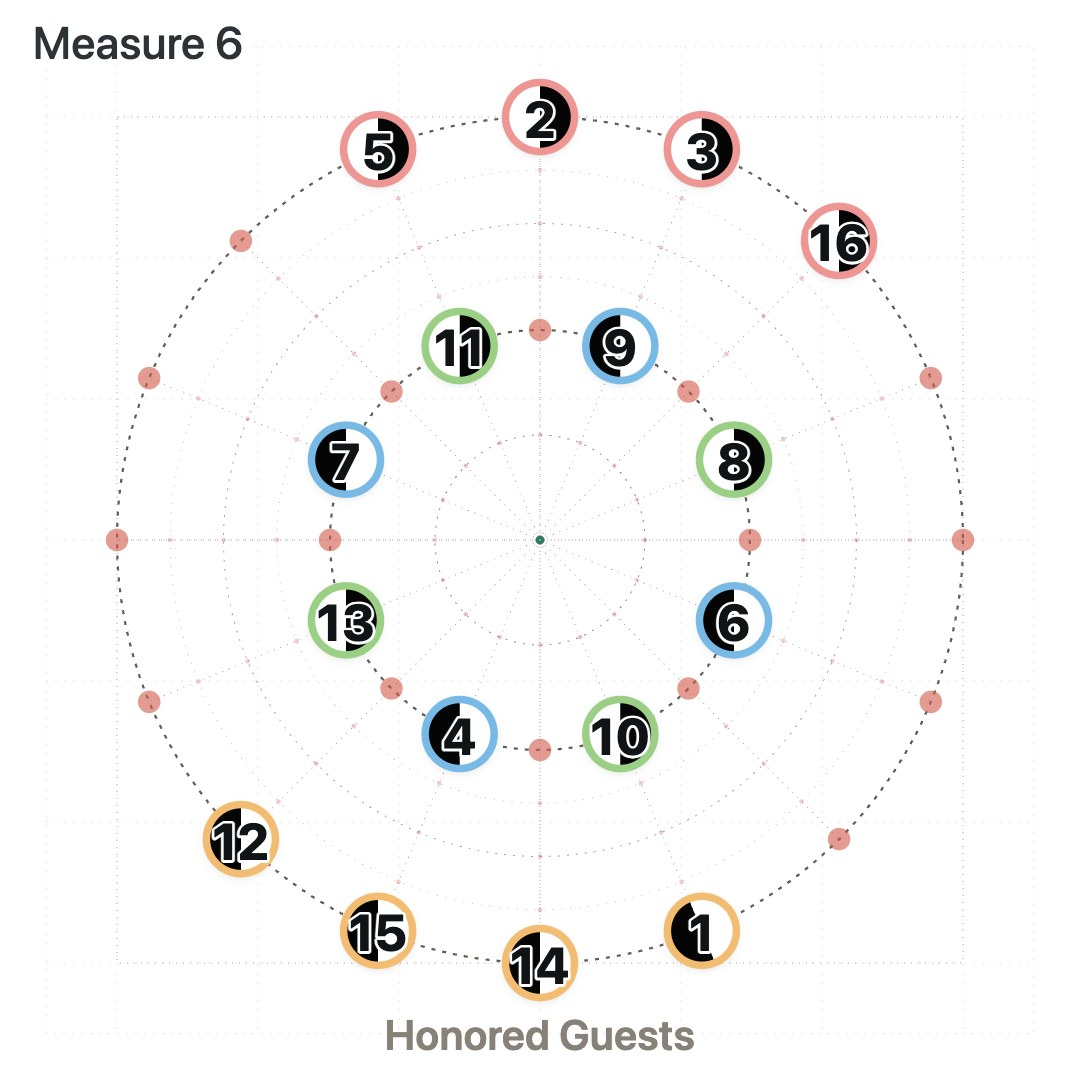
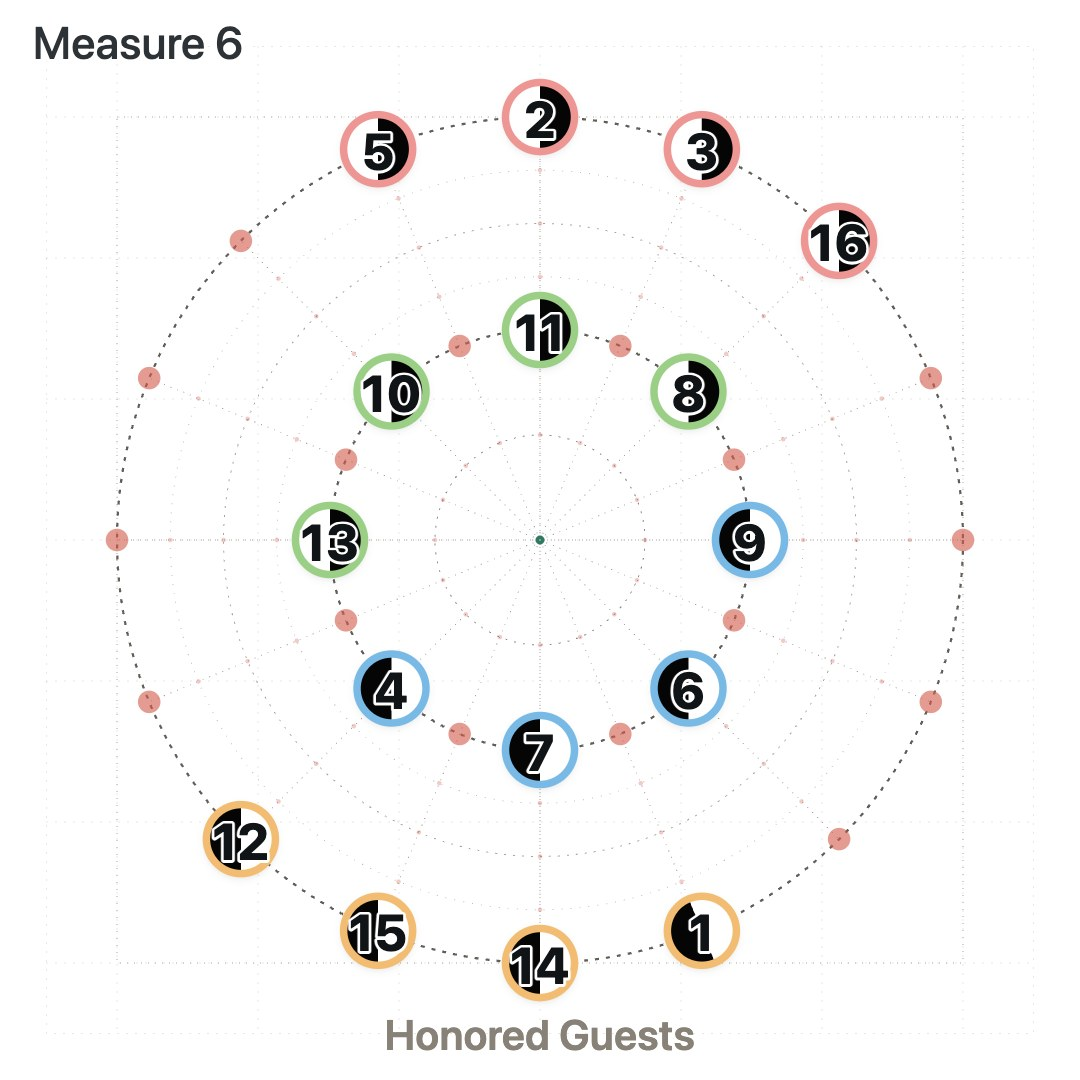
Waltz 14 Swirling Cascade: Measure 4 green behind blue, Measure 5 green north / blue south on the inside circle

Changed region(s): [[0.2444, 0.2444, 0.7333, 0.7333]]

diff --git a/index.html b/index.html
@@ -4988,7 +4988,7 @@
         // Amber takes the 4 tapes left of the south cardinal (nearest the Honored Guests), going up
         // the left side: 1, 14, 15, 12 (12 on the west cardinal). Rose takes the 4 tapes right of the
         // north cardinal, going down the right side: 5, 2, 3, 16 (16 on the east cardinal). Green and
-        // blue make two short centered lines a little apart: green nearer the Honored Guests, blue
+        // blue make two short centered lines a little apart: blue nearer the Honored Guests, green
         // just behind, each keeping its order across. Facings as in Measure 3. Measures 5 and 6 start here.
         const swirlMeasure4 = (subtitle = "Measure 4") => {
           const line = frame(subtitle, 1, 4, FIT);
@@ -5015,7 +5015,8 @@
           Object.entries(rows).forEach(([color, row]) => {
             row.sort((a, b) => a.x - b.x).forEach((item, index) => {
               item.x = fix(CENTER.x + (index - (row.length - 1) / 2) * across);
-              item.y = fix(CENTER.y + (color === "green" ? apart : -apart));
+              // Green behind blue: blue nearer the Honored Guests (Ariel, 11/23).
+              item.y = fix(CENTER.y + (color === "green" ? -apart : apart));
             });
           });
           return named(line, swirl, subtitle);
@@ -5067,9 +5068,10 @@
             swirlMeasure4(),
             // "Measure 5" (Ariel, 11/23): amber and rose travel 1 tape along the line of dance
             // (counterclockwise) on the outside circle; green and blue spread onto the inside circle,
-            // one couple every other tape (cardinals and diagonals), green and blue alternating, each
-            // couple taking the nearest such spot it can. Every couple's facing is flipped from Measure 4
-            // (amber and blue follows now face left, green and rose follows right).
+            // every other tape: green fills the north half and blue the south half (the tapes either
+            // side of the cardinals, so the 8 sit evenly round, each half keeping its row's order
+            // west to east). Every couple's facing is flipped from Measure 4 (amber and blue follows
+            // now face left, green and rose follows right).
             ...(() => {
               const shot = swirlMeasure4("Measure 5");
               const tape = Math.PI / 8;
@@ -5082,16 +5084,10 @@
               const best = (items, angles, radius) => perms(angles).reduce((a, b) => (cost(items, b, radius) < cost(items, a, radius) ? b : a));
               const group = (color) => shot.items.filter((item) => item.groupColor === color);
               const place = (items, angles, radius) => items.forEach((item, i) => { const p = at(angles[i], radius); item.x = fix(p.x); item.y = fix(p.y); });
-              // Inside circle: green on every other spot, blue between, whichever way round is nearer.
-              const green = group("green"), blue = group("blue");
-              const spots = Array.from({ length: 8 }, (_, k) => (k * Math.PI) / 4);
-              const choice = [0, 1].map((parity) => {
-                const g = best(green, spots.filter((_, k) => k % 2 === parity), INNER_RADIUS);
-                const b = best(blue, spots.filter((_, k) => k % 2 !== parity), INNER_RADIUS);
-                return { g, b, total: cost(green, g, INNER_RADIUS) + cost(blue, b, INNER_RADIUS) };
-              }).reduce((x, y) => (y.total < x.total ? y : x));
-              place(green, choice.g, INNER_RADIUS);
-              place(blue, choice.b, INNER_RADIUS);
+              // Inside circle, west to east: green over the top (north), blue along the bottom.
+              const byX = (items) => [...items].sort((a, b) => a.x - b.x);
+              place(byX(group("green")), [9, 11, 13, 15].map((k) => k * tape), INNER_RADIUS);
+              place(byX(group("blue")), [7, 5, 3, 1].map((k) => k * tape), INNER_RADIUS);
               [...group("amber"), ...group("rose")].forEach((item) => Object.assign(item, turnLod(item, 1)));
               const flipped = { east: "west", west: "east" };
               shot.items.forEach((item) => { item.facingMode = flipped[item.facingMode] ?? item.facingMode; });
